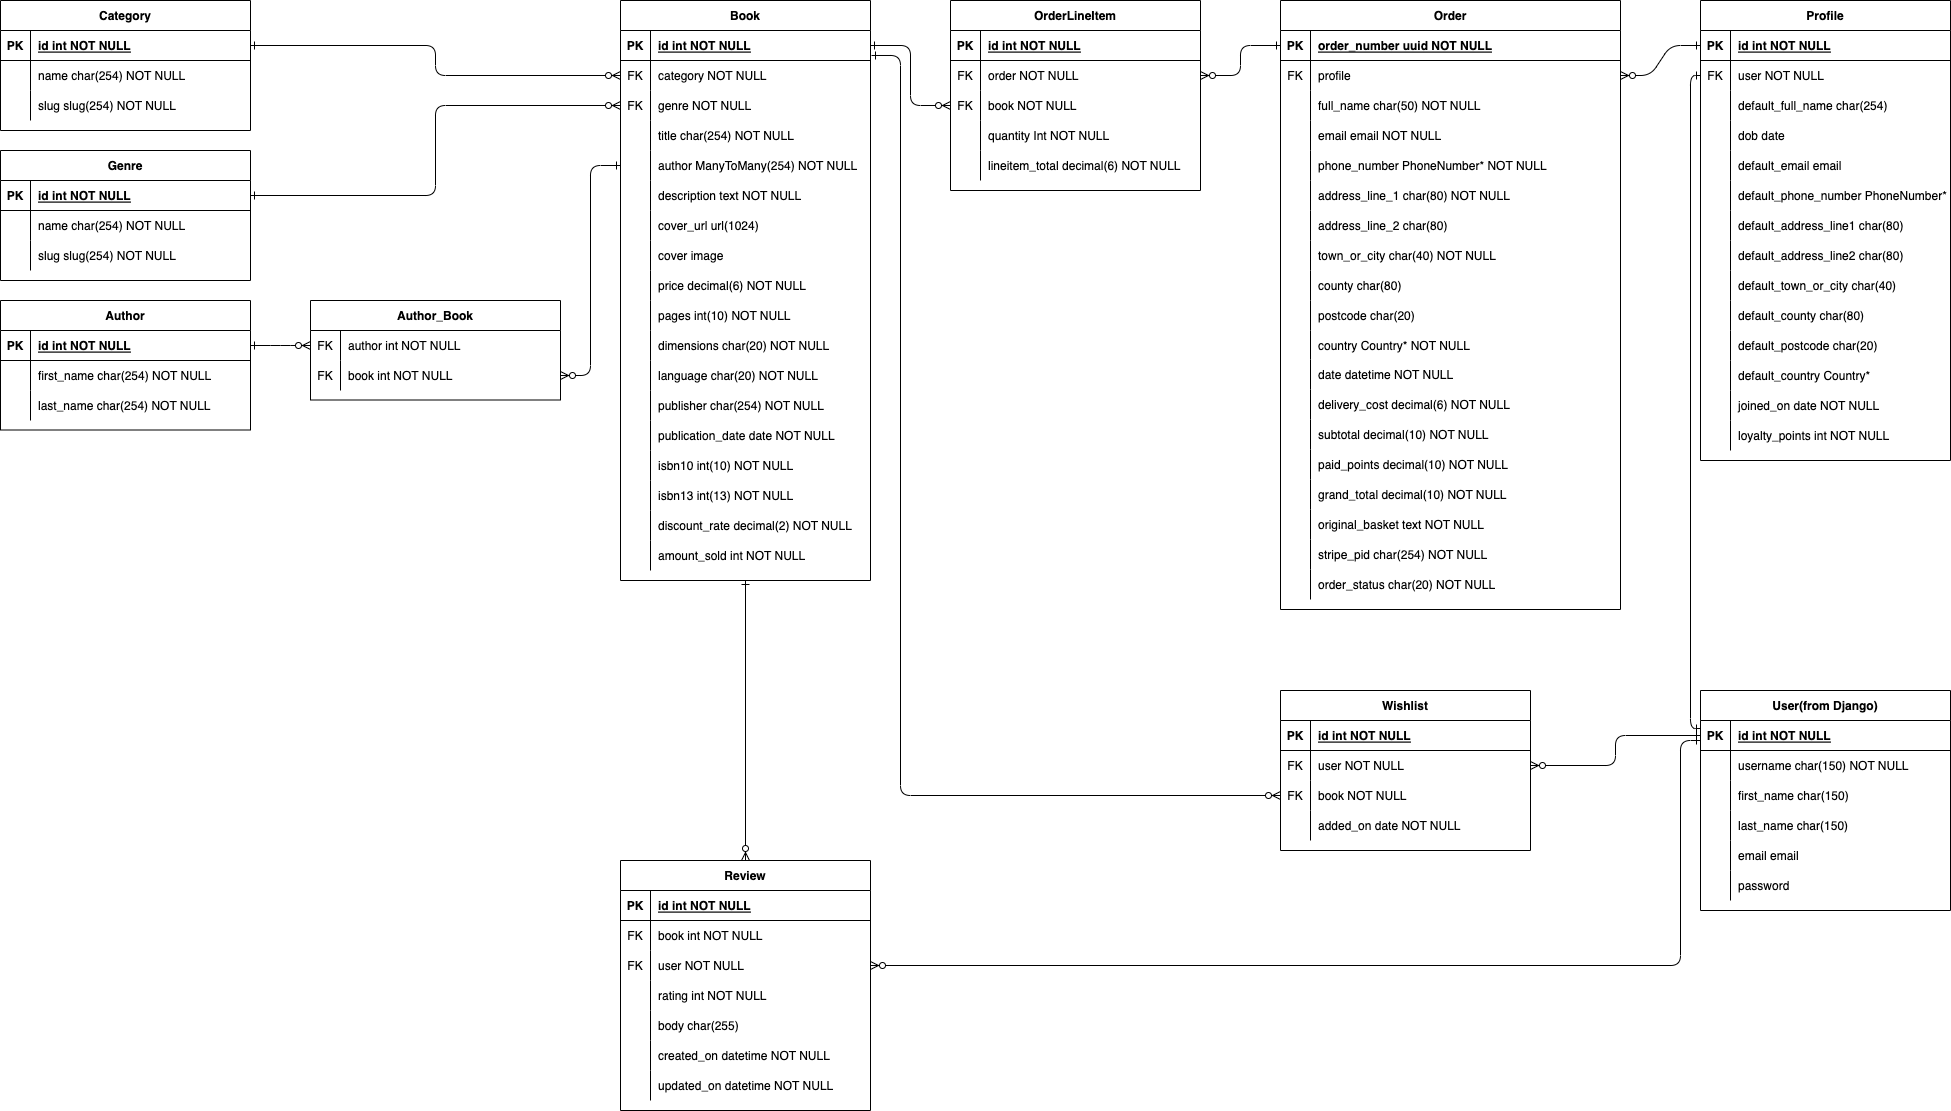
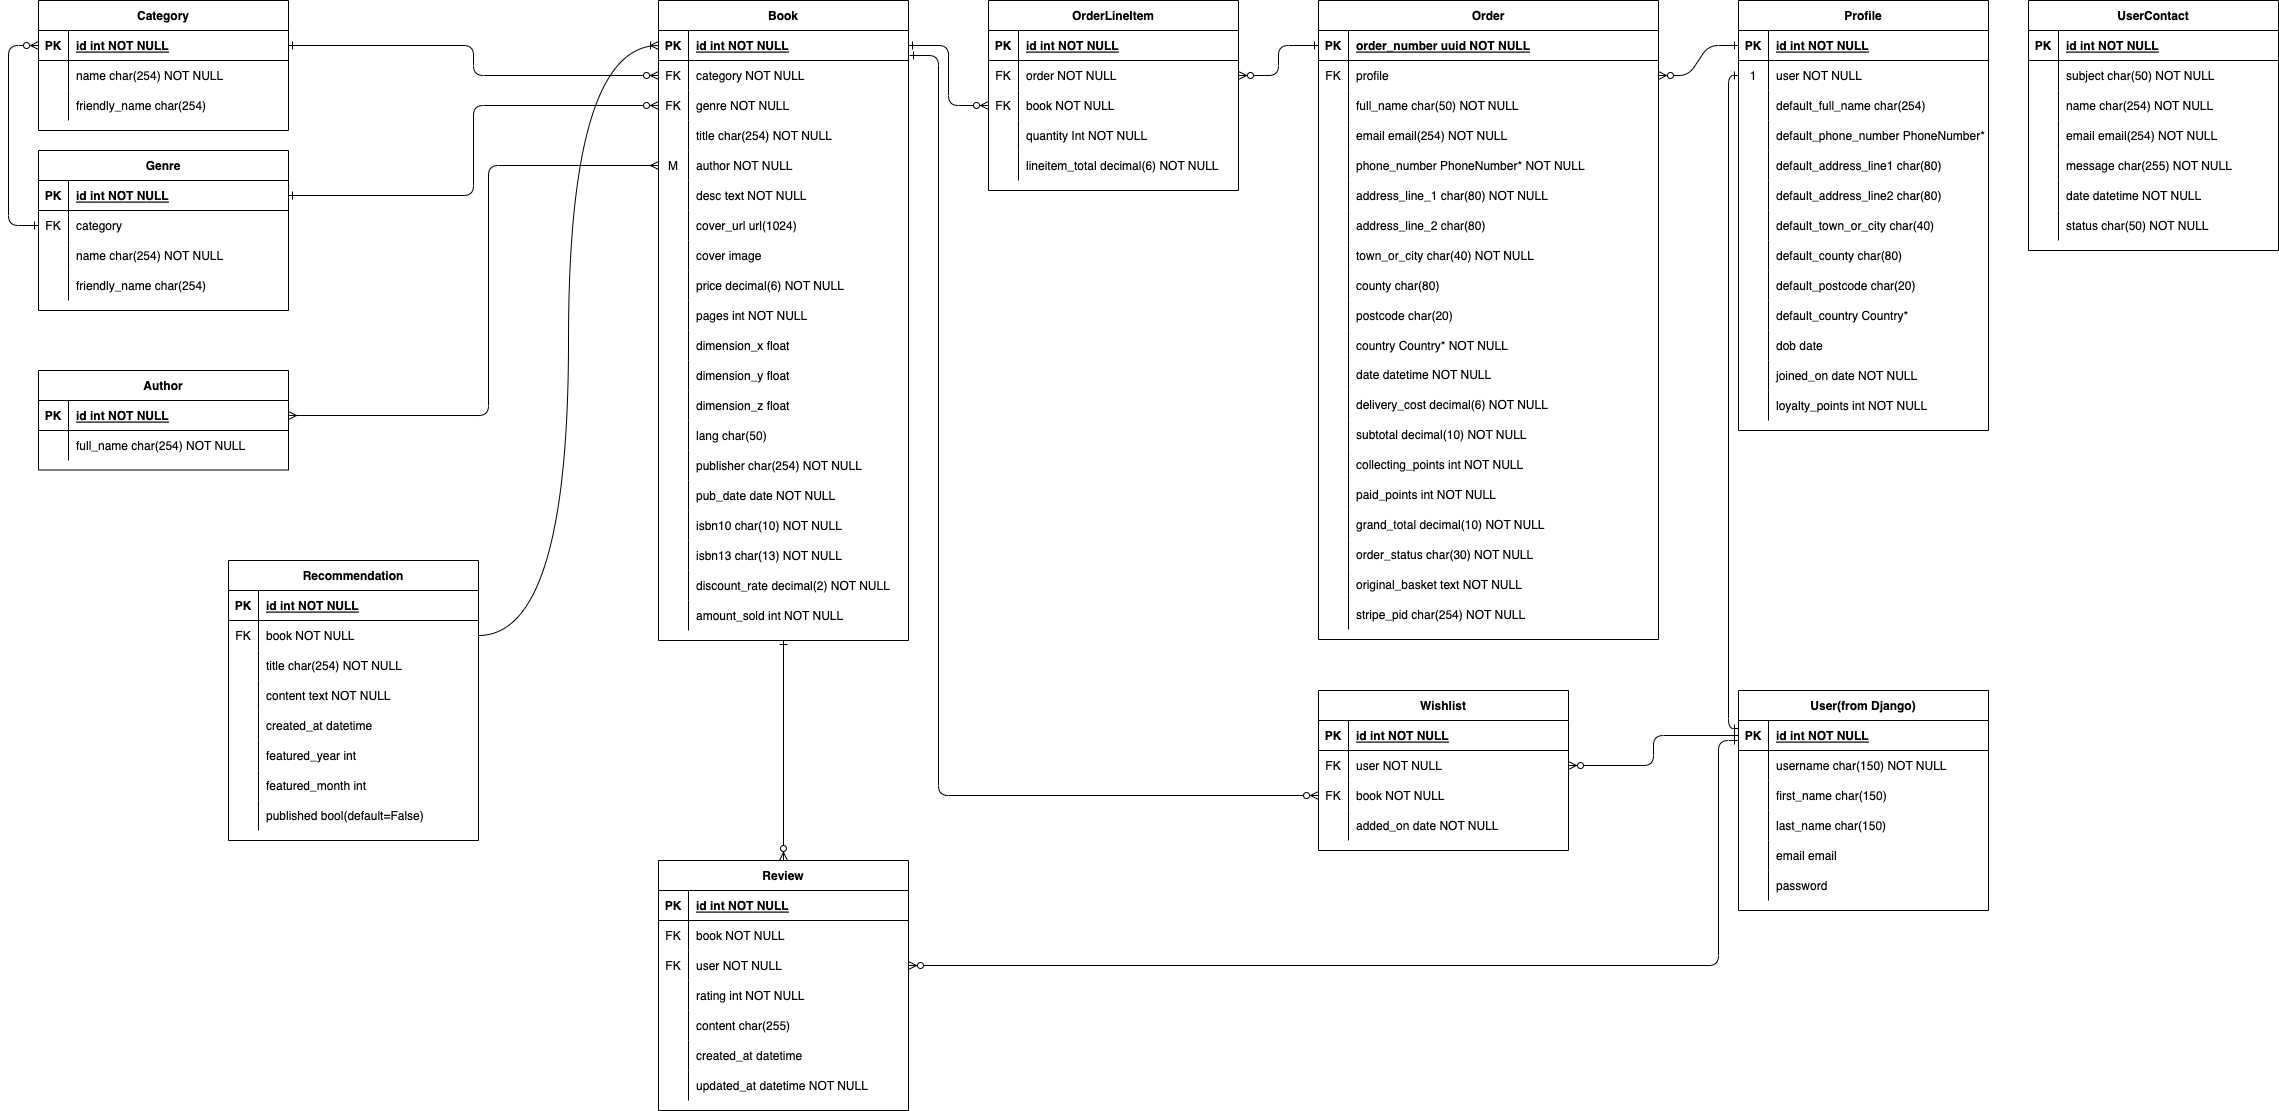
docs: Replace entity relationship diagram

diff --git a/README.md b/README.md
@@ -184,6 +184,29 @@ __Note__: The site is for educational purposes only. To simulate a payment, plea
 
 ## Models
 
+- Books app
+
+    - Category
+    - Genre
+    - Author
+    - Book
+    - Review
+    - Recommendation
+
+- Checkout app
+
+    - Order
+    - OrderLineItem
+
+- Helpcentre app
+
+    - UserContact
+
+- Profile app
+
+    - Profile: inherits the Django-allauth's user model
+    - Wishlist
+
 <br>
 
 [Back To **Table of Contents**](#table-of-contents)
